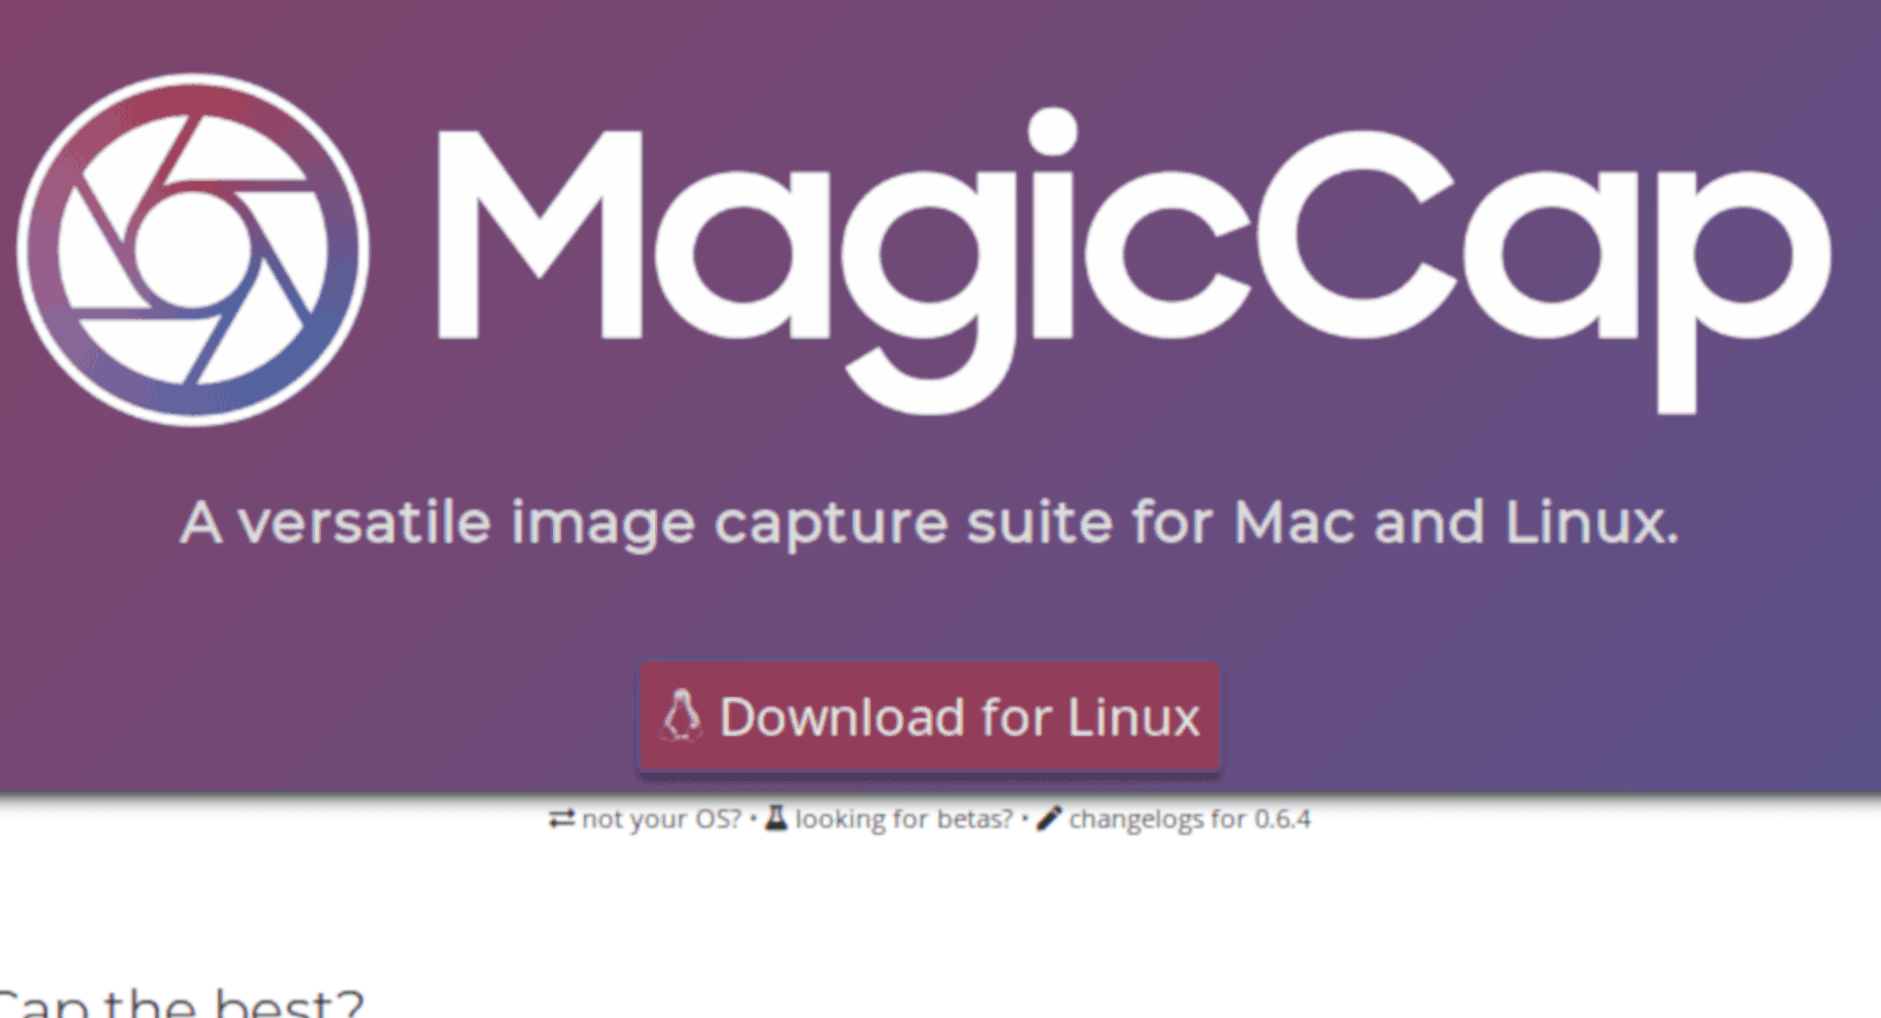
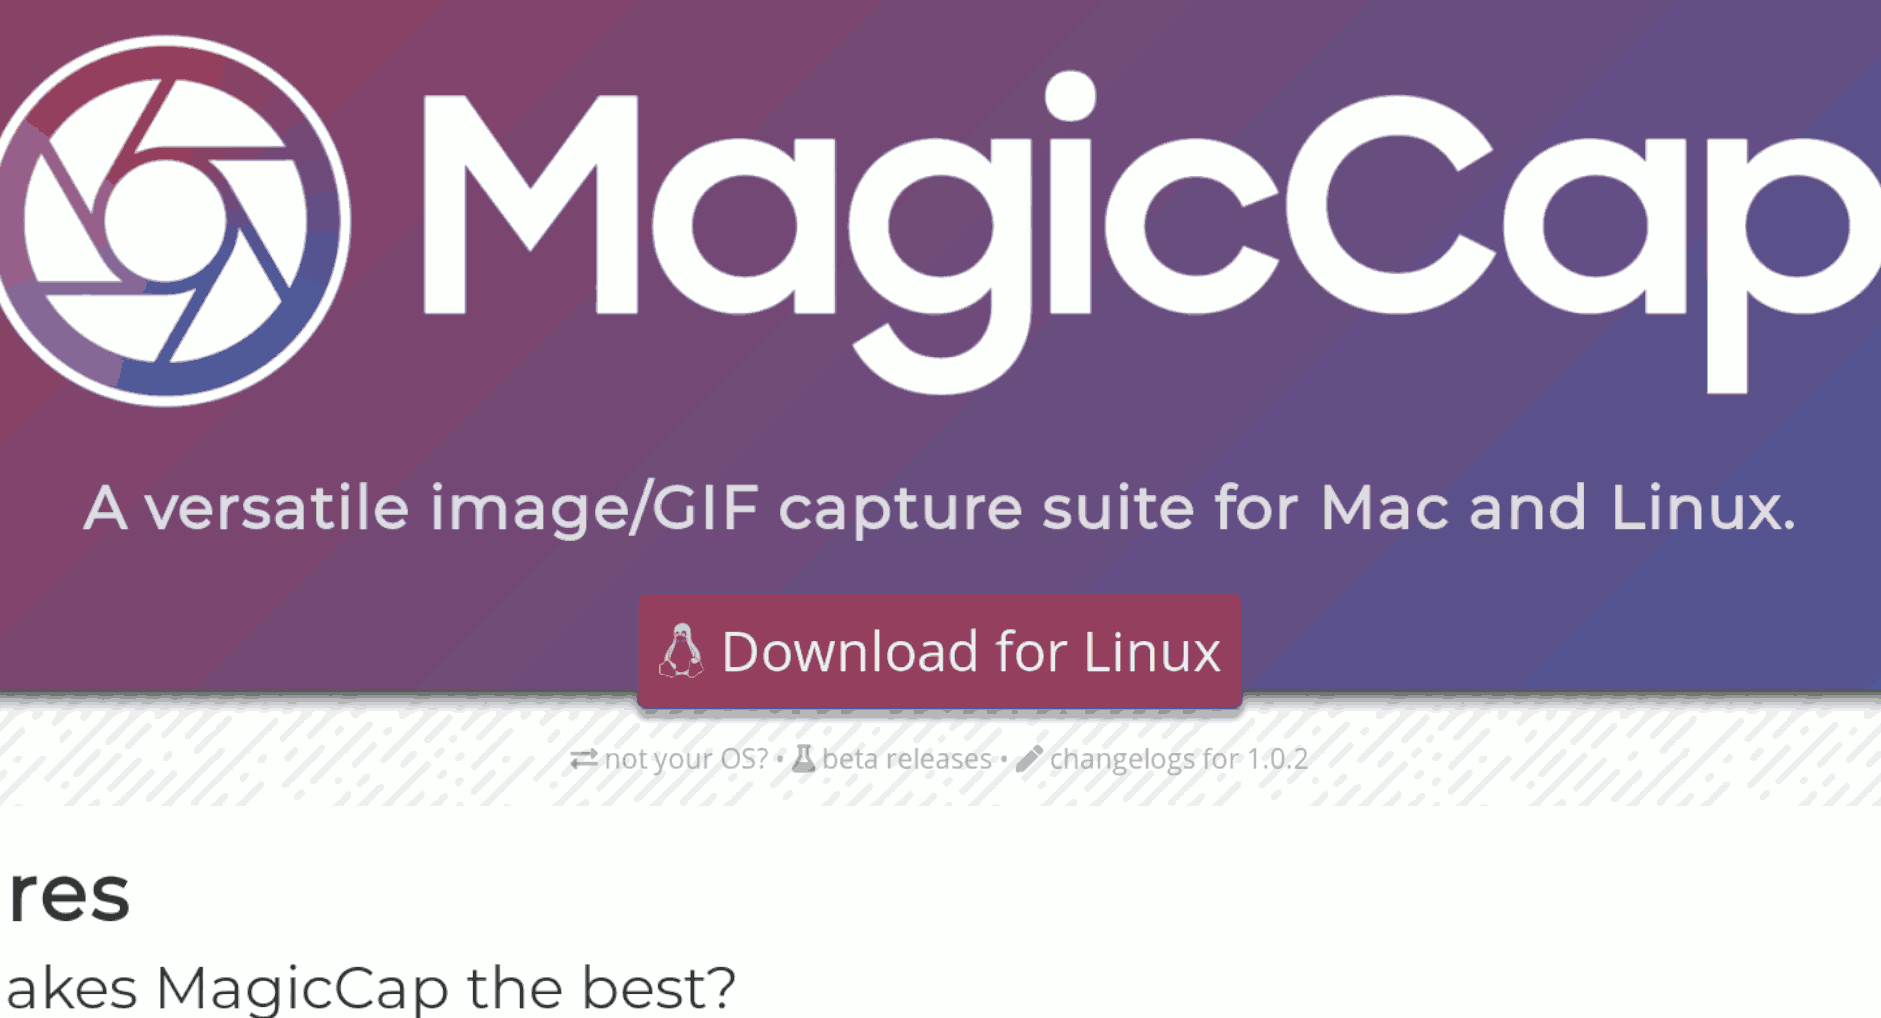
Add, remove and modify some projects and their images

diff --git a/js/pages/projects-list.js b/js/pages/projects-list.js
@@ -19,7 +19,7 @@ const projects = [{
 
   {
     "name": "User Scripts",
-    "desc": "Bodged together scripts for websites to add/fix functionality",
+    "desc": "Bodged together scripts for websites to add, fix or tweak their functionality",
     "url": false,
     "gh": "mrdnomaid/userscripts",
     "img": "js",
@@ -29,7 +29,7 @@ const projects = [{
 
   {
     "name": "User Styles",
-    "desc": "Hastilly made CSS to tweak elements on websites",
+    "desc": "Hastilly made CSS to add, fix or tweak elements on many websites",
     "url": false,
     "gh": "mrdnomaid/userstyles",
     "img": "css",
@@ -39,7 +39,7 @@ const projects = [{
 
   {
     "name": "Pinghost Redesign",
-    "desc": "A redesigned website for a now-defunct hosting company",
+    "desc": "I redesigned the website for a now-defunct hosting company",
     "url": "https://ping.dnomaid.co.uk",
     "gh": "mrdnomaid/userstyles",
     "old": true,
@@ -50,7 +50,7 @@ const projects = [{
 
   {
     "name": "Tools",
-    "desc": "Small, helpful utilities",
+    "desc": "Small, helpful, web-based utilities such as a factor finder",
     "url": "/tools",
     "gh": "mrdnomaid/tools",
     "type": "wapp",
@@ -59,7 +59,7 @@ const projects = [{
 
   {
     "name": "redditunsubinactive",
-    "desc": "Unsubscribe from inactive subreddits",
+    "desc": "Unsubscribe from subreddits that are no longer active on Reddit",
     "url": "/redditunsubinactive",
     "gh": "mrdnomaid/redditunsubinactive",
     "img": "unsub",
@@ -69,7 +69,7 @@ const projects = [{
 
   {
     "name": "Scripts",
-    "desc": "Useful scripts for automating things I do often enough that they require a script to automate them ",
+    "desc": "Useful scripts for automating things I do often enough that they require a script to automate them",
     "url": false,
     "gh": "mrdnomaid/scripts",
     "img": "scripts",
@@ -78,7 +78,7 @@ const projects = [{
   },
 
   {
-    "name": "Next Train",
+    "name": "Next Trains",
     "desc": "Google Assistant application that will tell you the next trains departing from any UK railway station",
     "url": "https://assistant.google.com/services/a/uid/0000002b9e81557d",
     "gh": null,
@@ -89,7 +89,7 @@ const projects = [{
 
   {
     "name": "Hash",
-    "desc": "An attempt at making a Discord bot. It didn't work too well.",
+    "desc": "An attempt at making a Discord bot, now somewhat dormant.",
     "url": null,
     "gh": "mrdnomaid/hash2",
     "old": true,
@@ -100,7 +100,7 @@ const projects = [{
 
   {
     "name": "WANCheck",
-    "desc": "Is meant to tell you when your internet goes down, but doesn't work that well either",
+    "desc": "A tool to monitor internet outages, but I never got it work very well",
     "url": "/wancheck",
     "gh": "mrdnomaid/wancheck",
     "old": true,
@@ -120,26 +120,6 @@ const projects = [{
   },
 
   {
-    "name": "fa-chess",
-    "desc": "Saw that FontAwesome had some chess icons, so I made a little board from them.",
-    "url": "/fa-chess",
-    "gh": "mrdnomaid/fa-chess",
-    "img": "fa-chess",
-    "type": "fun",
-    "lang": ["html", "css"]
-  },
-
-  {
-    "name": "PHPcmd",
-    "desc": "Quickly made webpage to execute shell commands using PHP.",
-    "url": null,
-    "gh": "mrdnomaid/PHPcmd",
-    "img": "phpcmd",
-    "type": "wapp",
-    "lang": ["html", "css", "php"]
-  },
-
-  {
     "name": "Ubuntu Codename Generator",
     "desc": "Generate Plausible Ubuntu-like Codenames",
     "url": "/ubuntucodenamegen",
@@ -151,7 +131,7 @@ const projects = [{
 
   {
     "name": "HP Printer Trees",
-    "desc": "See how many trees you've felled in the web UI of your HP printer",
+    "desc": "See how many trees you've used up printing pages in the web UI of your HP printer",
     "url": null,
     "gh": "mrdnomaid/trees",
     "img": "trees",
@@ -161,7 +141,7 @@ const projects = [{
 
   {
     "name": "Reddit Image Gallery",
-    "desc": "A simple gallery to show images posted to a subreddit",
+    "desc": "A simple gallery to show images posted to any subreddit",
     "url": "/redditgallery",
     "gh": "mrdnomaid/redditgallery",
     "img": "redditgallery",
@@ -180,7 +160,7 @@ const projects = [{
 
   {
     "name": "Font Randomizer",
-    "desc": "Make some text look stupid.",
+    "desc": "Make some text look a little bit stupid. Some have said it looks more like a ransom note though.",
     "url": "/fontrandomizer",
     "gh": "mrdnomaid/fontrandomizer",
     "img": "fontr",
@@ -190,7 +170,7 @@ const projects = [{
 
   {
     "name": "Random Colours",
-    "desc": "Remake of a PHP thing that just cycles through random hex codes",
+    "desc": "Remake of an old PHP thing I made that just cycles through random hex colour codes",
     "url": "/randomcolours",
     "gh": "mrdnomaid/randomcolours",
     "img": "randomcolours",
@@ -200,7 +180,7 @@ const projects = [{
 
   {
     "name": "BSODs",
-    "desc": "Some recreated Windows BSODs",
+    "desc": "I recreated some Windows blue screens in HTML and CSS",
     "url": "/bsods",
     "gh": "mrdnomaid/bsods",
     "img": "bsod",
@@ -239,7 +219,7 @@ const projects = [{
 
   {
     "name": "NerdCubed Soundboard",
-    "desc": "Featuring reddit's favourite clips",
+    "desc": "Featuring reddit's favourite clips of a gaming YouTuber",
     "url": "/n3soundboard",
     "gh": "mrdnomaid/n3soundboard",
     "old": true,
@@ -249,19 +229,8 @@ const projects = [{
   },
 
   {
-    "name": "JavaScript Test",
-    "desc": "See if you have JavaScript enabled in your browser",
-    "url": "/jstest",
-    "gh": "mrdnomaid/jstest",
-    "old": true,
-    "img": "jstest",
-    "type": "wapp",
-    "lang": ["html", "css", "javascript"]
-  },
-
-  {
     "name": "Windows",
-    "desc": "A website that looks like Windows 10",
+    "desc": "A website that looks somewhat like the Windows 10 operating system",
     "url": "/windows",
     "gh": "mrdnomaid/windows",
     "old": true,
@@ -272,7 +241,7 @@ const projects = [{
 
   {
     "name": "OS X",
-    "desc": "A website that looks like OS X",
+    "desc": "A website that looks somewhat like the OS X operating system",
     "url": "/mac",
     "gh": "mrdnomaid/mac",
     "old": true,
@@ -285,7 +254,7 @@ const projects = [{
 
   {
     "name": "Aurora Community",
-    "desc": "Aurora Community memorial website",
+    "desc": "A Discord community memorial website with sentiments",
     "url": "http://auroracommunity.io",
     "gh": "AuroraCommunity/AuroraWebsite",
     "img": "auroracommunity.io",
@@ -295,7 +264,7 @@ const projects = [{
 
   {
     "name": "Melonz Website",
-    "desc": "The website for Melonz",
+    "desc": "The website for Melonz, a development team",
     "url": "https://melonz.app/",
     "git": "https://gitlab.com/Melonz/melonz.gitlab.io",
     "img": "melonz.app",
@@ -305,7 +274,7 @@ const projects = [{
 
   {
     "name": "MagicCap Website",
-    "desc": "The website for MagicCap",
+    "desc": "The website for MagicCap, a FOSS screenshot suite for macOS and Linux",
     "url": "https://magiccap.me/",
     "gh": "magiccap/magiccap.me",
     "img": "magiccap.me",
@@ -320,5 +289,15 @@ const projects = [{
     "img": "fishygo",
     "type": "wapp",
     "lang": ["html", "css", "php"]
+  },
+
+  {
+    "name": "LunarNet.space",
+    "desc": "Website for a friend, design loosly based upon his old Jekyll theme and the Arch Linux wiki.",
+    "url": "https://lunarnet.space/",
+    "gh": "Lunarki/Lunarki.github.io",
+    "img": "lunarnet.space",
+    "type": "wsite",
+    "lang": ["html", "scss", "javascript", "jekyll"]
   }
 ]
